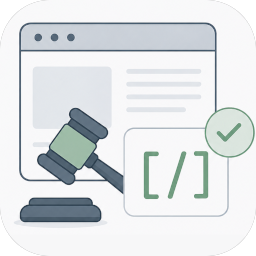
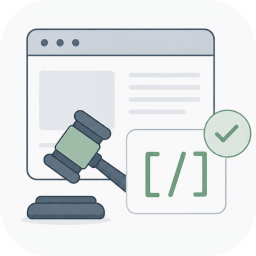
5.17.0: layer analyzed hook, layer feature reader, cached page lookup
- New glocalsaino_map_layer_analyzed action and kml_map_each_layer_feature()
  so add-ons can react to new or refreshed layers and read their items.
- The search for the page where each map is published is cached
  (object cache keyed to posts last_changed); fixes the Plugin Check
  direct database query warnings.
- .github and .wordpress-org excluded from distribution zips.
- Updated Auctions icon in Extensions. Tested up to WordPress 7.2.

diff --git a/glocalsaino-layer-map-viewer.php b/glocalsaino-layer-map-viewer.php
@@ -3,7 +3,7 @@
  * Plugin Name:       GlocalSaino Layer Map Viewer
  * Plugin URI:        https://glocalsaino.com/layermapviewer/
  * Description:       Upload one or more KML files and display interactive maps with colored layers, per-field filtering, and transparency control, with no limit on the number of maps.
- * Version:           5.16.0
+ * Version:           5.17.0
  * Requires at least: 5.8
  * Requires PHP:      7.4
  * Author:            Glocal Saino
@@ -14,7 +14,7 @@
 
 if ( ! defined( 'ABSPATH' ) ) exit;
 
-define( 'KML_MAP_VERSION', '5.16.0' );
+define( 'KML_MAP_VERSION', '5.17.0' );
 define( 'KML_MAP_DIR',     plugin_dir_path( __FILE__ ) );
 define( 'KML_MAP_URL',     plugin_dir_url( __FILE__ ) );
 
@@ -417,14 +417,26 @@ function kml_map_get_layers( $post_id ) {
 function kml_map_find_shortcode_page_url( $map_id ) {
     global $wpdb;
 
-    $posts = $wpdb->get_results(
-        $wpdb->prepare(
-            "SELECT ID, post_content FROM {$wpdb->posts}
-             WHERE post_status = 'publish' AND ( post_content LIKE %s OR post_content LIKE %s )",
-            '%[glocalsaino_map%',
-            '%[vc_raw_html%'
-        )
-    );
+    // La página de administración llama a esta función una vez por mapa: la
+    // lista de entradas candidatas se guarda en la caché de objetos con una
+    // clave ligada a last_changed de "posts" (el mismo patrón que usa
+    // WP_Query), así que se invalida sola al publicar o editar cualquier
+    // entrada y nunca devuelve una URL desfasada.
+    $cache_key = 'shortcode_posts:' . wp_cache_get_last_changed( 'posts' );
+    $posts     = wp_cache_get( $cache_key, 'glocalsaino_map' );
+
+    if ( ! is_array( $posts ) ) {
+        // phpcs:ignore WordPress.DB.DirectDatabaseQuery.DirectQuery -- ninguna API de WordPress busca un texto solo en post_content (la búsqueda de WP_Query mira también título y extracto); el resultado se cachea justo debajo.
+        $posts = $wpdb->get_results(
+            $wpdb->prepare(
+                "SELECT ID, post_content FROM {$wpdb->posts}
+                 WHERE post_status = 'publish' AND ( post_content LIKE %s OR post_content LIKE %s )",
+                '%[glocalsaino_map%',
+                '%[vc_raw_html%'
+            )
+        );
+        wp_cache_set( $cache_key, $posts, 'glocalsaino_map' );
+    }
 
     foreach ( $posts as $post ) {
         if ( kml_map_content_has_shortcode_id( $post->post_content, $map_id ) ) {
@@ -845,7 +857,61 @@ function kml_map_run_analysis( $post_id ) {
         update_post_meta( $post_id, '_glocalsaino_map_filter_values', wp_json_encode( $sorted_values, JSON_UNESCAPED_UNICODE ) );
         update_post_meta( $post_id, '_glocalsaino_map_filter_values_field', $filter_field );
         update_post_meta( $post_id, '_glocalsaino_map_filter_value_bounds', wp_json_encode( $value_bounds, JSON_UNESCAPED_UNICODE ) );
+
+        /**
+         * Fires after a layer of a map has been analyzed and its spatial
+         * index rebuilt: a KML layer just uploaded, a layer re-analyzed
+         * (filter field changed, old index format) or a layer of an add-on
+         * type refreshed (e.g. an External Data Layers source). Read its
+         * items with kml_map_each_layer_feature().
+         *
+         * @since 5.17.0
+         *
+         * @param int   $post_id Map ID.
+         * @param array $layer   Layer, as stored in the map (url, name, type…, analyzed = true).
+         * @param int   $idx     Position of the layer in the map.
+         */
+        do_action( 'glocalsaino_map_layer_analyzed', (int) $post_id, $layers[ $idx ], (int) $idx );
     }
+}
+
+/**
+ * Walks the items of an analyzed layer (read from its spatial index), so
+ * add-ons can use them without parsing the source file again.
+ *
+ * @since 5.17.0
+ *
+ * @param array    $layer    Layer, as stored in the map (needs 'url').
+ * @param callable $callback Receives array( 'geometry' => GeoJSON geometry, 'properties' => field => value, 'bounds' => [ minLat, minLng, maxLat, maxLng ] ).
+ *                           Return false to stop.
+ * @return int Number of items passed to the callback.
+ */
+function kml_map_each_layer_feature( array $layer, callable $callback ) {
+    if ( empty( $layer['url'] ) ) return 0;
+
+    $tile_dir = kml_map_tile_dir( $layer['url'] );
+    if ( ! is_dir( $tile_dir ) ) return 0;
+
+    $files = glob( trailingslashit( $tile_dir ) . '*.ndjson' ) ?: [];
+    sort( $files );
+
+    $count = 0;
+    foreach ( $files as $file ) {
+        foreach ( explode( "\n", (string) file_get_contents( $file ) ) as $line ) {
+            if ( '' === $line ) continue;
+            $f = json_decode( $line, true );
+            if ( ! is_array( $f ) || ! isset( $f['geometry'] ) ) continue;
+
+            $count++;
+            $item = [
+                'geometry'   => $f['geometry'],
+                'properties' => isset( $f['properties'] ) && is_array( $f['properties'] ) ? $f['properties'] : [],
+                'bounds'     => $f['bounds'] ?? null,
+            ];
+            if ( false === call_user_func( $callback, $item ) ) return $count;
+        }
+    }
+    return $count;
 }
 
 // ---------------------------------------------------------------------------

diff --git a/CLAUDE.md b/CLAUDE.md
@@ -2,7 +2,7 @@
 
 Mapas interactivos a partir de archivos KML, con capas de colores, filtros por campo y transparencia. Publicado en WordPress.org. **Repo público.**
 
-- Versión 5.16.0. Shortcode `[glocalsaino_map]`, REST `glocalsaino-map/v1`, menú de admin `glocalsaino-maps`.
+- Versión 5.17.0. Shortcode `[glocalsaino_map]`, REST `glocalsaino-map/v1`, menú de admin `glocalsaino-maps`.
 - Estructura: `glocalsaino-layer-map-viewer.php`, `admin/`, `assets/`.
 - Sin SDK de Freemius (eliminado en 2026-09). Add-on de pago: `glocalsaino-external-data-layers`, que detecta este plugin con `function_exists('kml_map_tile_dir')`: no renombrar esa función.
 - Tiene página Extensions.
